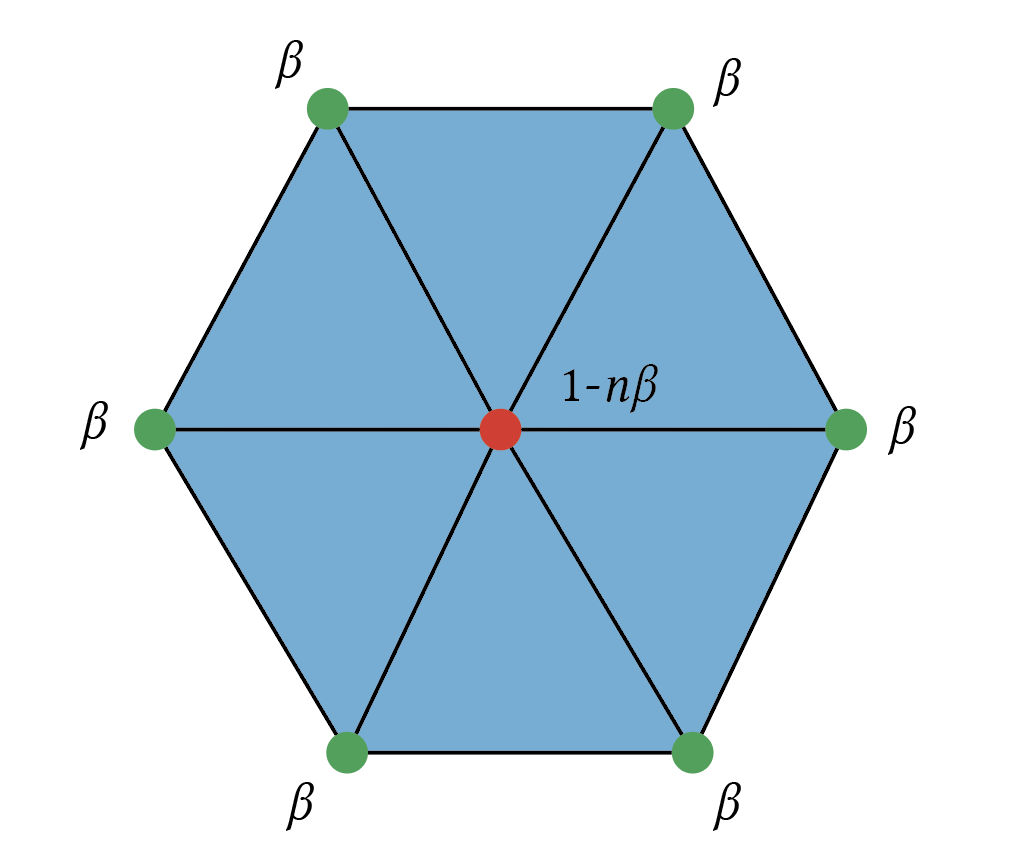
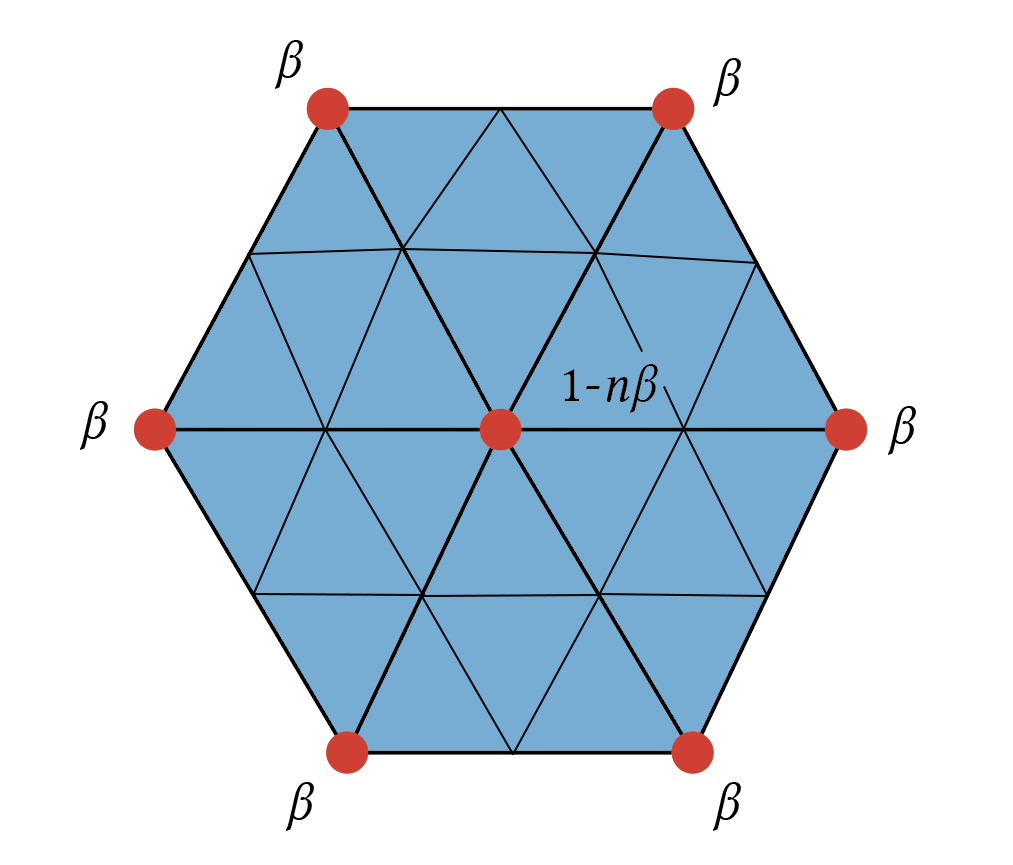
subdivision outline fix

diff --git a/011_subdivision/011_subdivision.md b/011_subdivision/011_subdivision.md
@@ -113,7 +113,7 @@ Remember, if we do not do this, our subdivision is a simple upsampling
 procedure that adds vertices to our surface without actually changing its
 appearance.
 We move an interior red vertex to the following weighted average of its own
-position, as well as the position of all of its new green neighbors:
+position, as well as the position of all of its old red neighbors:
 
 ![weights for the old vertices in the interior](assets/old-verts-interior.png)
 
